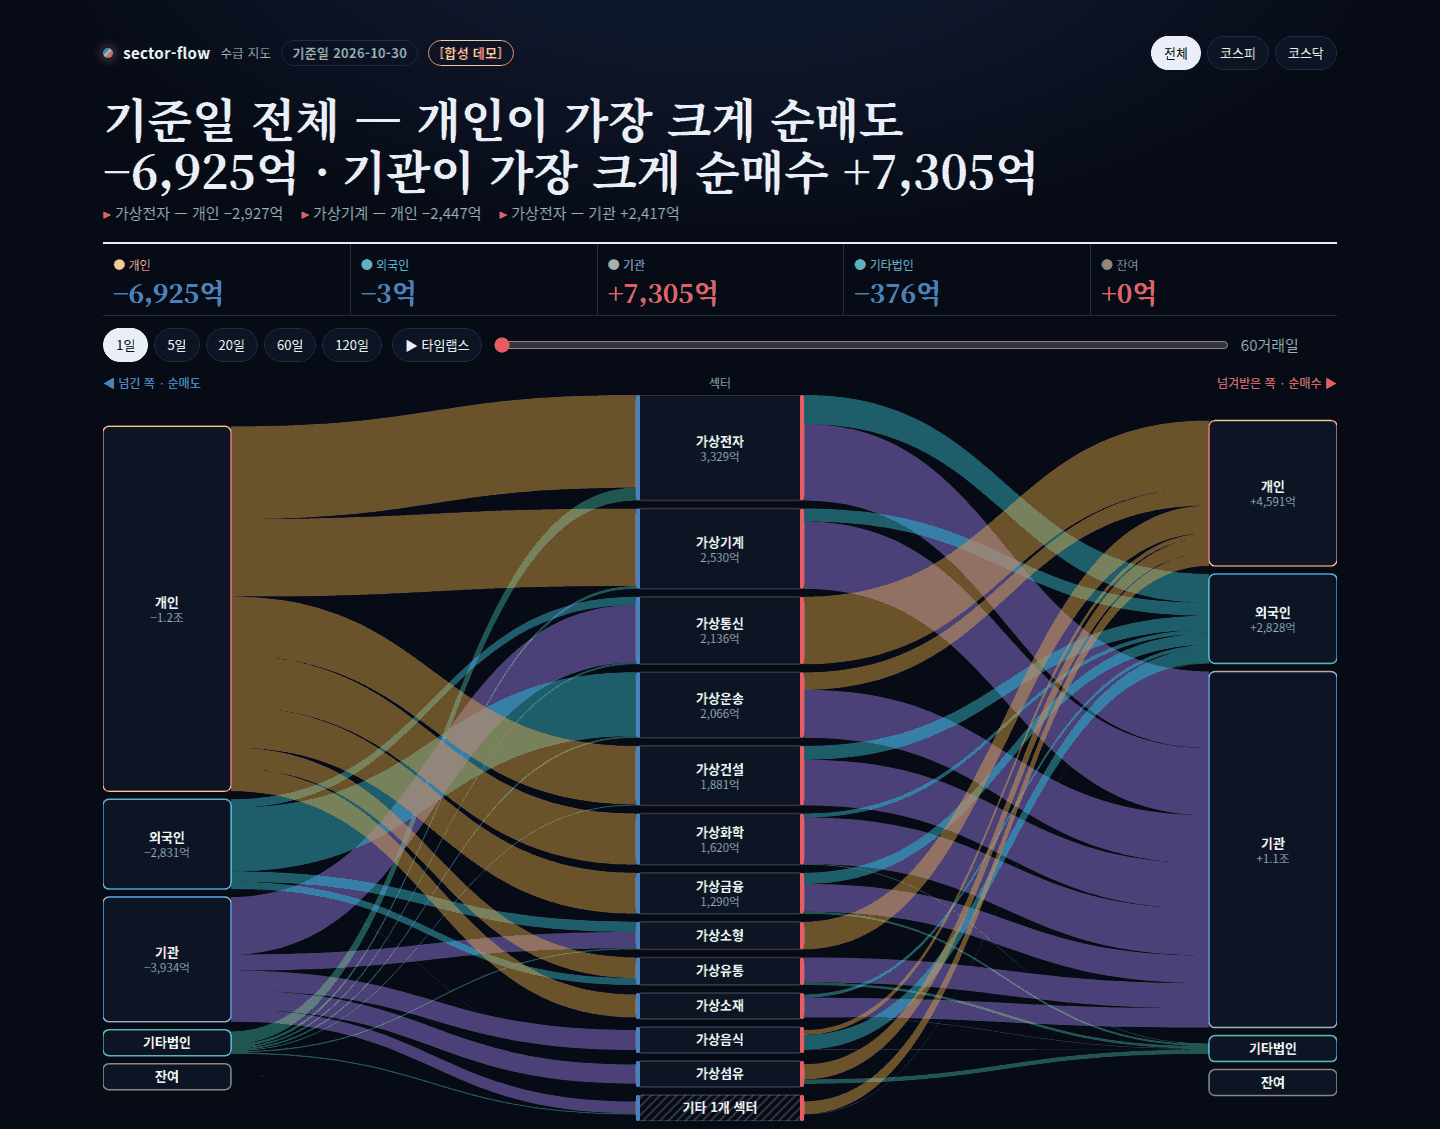
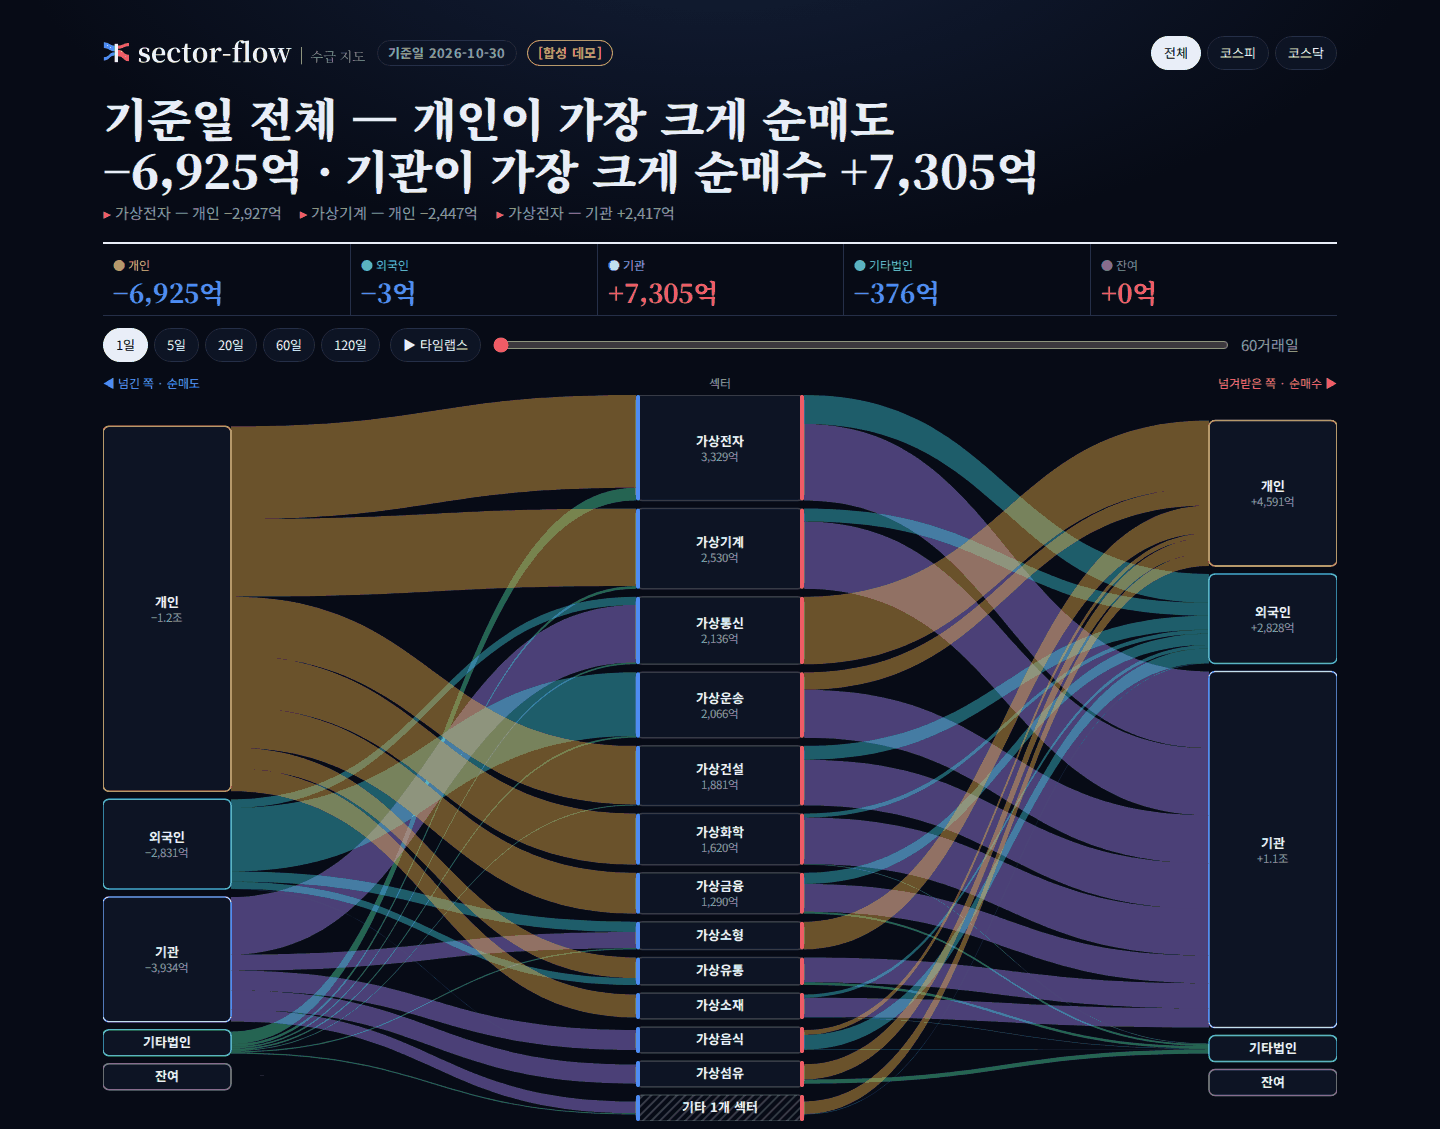
docs(images): 머리에 워드마크를 단 지도 페이지로 다시 찍는다
scripts/templates/ 가 바뀌어 원장의 웹·지도 그림과 타임랩스 GIF 가 낡았다. 합성 데모, demo_shots.py 로 HEAD 에서 찍었다.

diff --git a/docs/SCREENSHOTS.md b/docs/SCREENSHOTS.md
@@ -17,26 +17,26 @@ GIF 는 `scripts/map_video.py`(가짜 시계로 타임랩스를 30fps 로 찍어
 
 | 이미지 | 감시 경로 | 찍은 커밋 |
 |---|---|---|
-| docs/images/kqflow-today.png | src/sectorflow/tui/ | 3f1868f6dc0f1ba37af0356293504233a69f74bf |
-| docs/images/kqflow-today.png | src/sectorflow/demo.py | 3f1868f6dc0f1ba37af0356293504233a69f74bf |
-| docs/images/kqflow-table.png | src/sectorflow/tui/ | 3f1868f6dc0f1ba37af0356293504233a69f74bf |
-| docs/images/kqflow-table.png | src/sectorflow/demo.py | 3f1868f6dc0f1ba37af0356293504233a69f74bf |
-| docs/images/kqflow-names.png | src/sectorflow/tui/ | 3f1868f6dc0f1ba37af0356293504233a69f74bf |
-| docs/images/kqflow-names.png | src/sectorflow/demo.py | 3f1868f6dc0f1ba37af0356293504233a69f74bf |
-| docs/images/kqflow-combined.png | src/sectorflow/tui/ | 3f1868f6dc0f1ba37af0356293504233a69f74bf |
-| docs/images/kqflow-combined.png | src/sectorflow/demo.py | 3f1868f6dc0f1ba37af0356293504233a69f74bf |
-| docs/images/kqledger-table.png | src/sectorflow/tui/ | 3f1868f6dc0f1ba37af0356293504233a69f74bf |
-| docs/images/kqledger-table.png | src/sectorflow/demo.py | 3f1868f6dc0f1ba37af0356293504233a69f74bf |
-| docs/images/web-today.png | scripts/templates/ | 3f1868f6dc0f1ba37af0356293504233a69f74bf |
-| docs/images/web-today.png | src/sectorflow/demo.py | 3f1868f6dc0f1ba37af0356293504233a69f74bf |
-| docs/images/web-today-mobile.png | scripts/templates/ | 3f1868f6dc0f1ba37af0356293504233a69f74bf |
-| docs/images/web-today-mobile.png | src/sectorflow/demo.py | 3f1868f6dc0f1ba37af0356293504233a69f74bf |
-| docs/images/map-demo.png | scripts/templates/ | 3f1868f6dc0f1ba37af0356293504233a69f74bf |
-| docs/images/map-demo.png | scripts/sector_map.py | 3f1868f6dc0f1ba37af0356293504233a69f74bf |
-| docs/images/map-demo.png | src/sectorflow/flowmap.py | 3f1868f6dc0f1ba37af0356293504233a69f74bf |
-| docs/images/map-demo.png | src/sectorflow/demo.py | 3f1868f6dc0f1ba37af0356293504233a69f74bf |
-| docs/images/map-demo.gif | scripts/templates/ | 3f1868f6dc0f1ba37af0356293504233a69f74bf |
-| docs/images/map-demo.gif | scripts/sector_map.py | 3f1868f6dc0f1ba37af0356293504233a69f74bf |
-| docs/images/map-demo.gif | scripts/map_video.py | 3f1868f6dc0f1ba37af0356293504233a69f74bf |
-| docs/images/map-demo.gif | src/sectorflow/flowmap.py | 3f1868f6dc0f1ba37af0356293504233a69f74bf |
-| docs/images/map-demo.gif | src/sectorflow/demo.py | 3f1868f6dc0f1ba37af0356293504233a69f74bf |
+| docs/images/kqflow-today.png | src/sectorflow/tui/ | b93fd5c3f58b90bd936a89342eb61f1e591b3d0c |
+| docs/images/kqflow-today.png | src/sectorflow/demo.py | b93fd5c3f58b90bd936a89342eb61f1e591b3d0c |
+| docs/images/kqflow-table.png | src/sectorflow/tui/ | b93fd5c3f58b90bd936a89342eb61f1e591b3d0c |
+| docs/images/kqflow-table.png | src/sectorflow/demo.py | b93fd5c3f58b90bd936a89342eb61f1e591b3d0c |
+| docs/images/kqflow-names.png | src/sectorflow/tui/ | b93fd5c3f58b90bd936a89342eb61f1e591b3d0c |
+| docs/images/kqflow-names.png | src/sectorflow/demo.py | b93fd5c3f58b90bd936a89342eb61f1e591b3d0c |
+| docs/images/kqflow-combined.png | src/sectorflow/tui/ | b93fd5c3f58b90bd936a89342eb61f1e591b3d0c |
+| docs/images/kqflow-combined.png | src/sectorflow/demo.py | b93fd5c3f58b90bd936a89342eb61f1e591b3d0c |
+| docs/images/kqledger-table.png | src/sectorflow/tui/ | b93fd5c3f58b90bd936a89342eb61f1e591b3d0c |
+| docs/images/kqledger-table.png | src/sectorflow/demo.py | b93fd5c3f58b90bd936a89342eb61f1e591b3d0c |
+| docs/images/web-today.png | scripts/templates/ | b93fd5c3f58b90bd936a89342eb61f1e591b3d0c |
+| docs/images/web-today.png | src/sectorflow/demo.py | b93fd5c3f58b90bd936a89342eb61f1e591b3d0c |
+| docs/images/web-today-mobile.png | scripts/templates/ | b93fd5c3f58b90bd936a89342eb61f1e591b3d0c |
+| docs/images/web-today-mobile.png | src/sectorflow/demo.py | b93fd5c3f58b90bd936a89342eb61f1e591b3d0c |
+| docs/images/map-demo.png | scripts/templates/ | b93fd5c3f58b90bd936a89342eb61f1e591b3d0c |
+| docs/images/map-demo.png | scripts/sector_map.py | b93fd5c3f58b90bd936a89342eb61f1e591b3d0c |
+| docs/images/map-demo.png | src/sectorflow/flowmap.py | b93fd5c3f58b90bd936a89342eb61f1e591b3d0c |
+| docs/images/map-demo.png | src/sectorflow/demo.py | b93fd5c3f58b90bd936a89342eb61f1e591b3d0c |
+| docs/images/map-demo.gif | scripts/templates/ | b93fd5c3f58b90bd936a89342eb61f1e591b3d0c |
+| docs/images/map-demo.gif | scripts/sector_map.py | b93fd5c3f58b90bd936a89342eb61f1e591b3d0c |
+| docs/images/map-demo.gif | scripts/map_video.py | b93fd5c3f58b90bd936a89342eb61f1e591b3d0c |
+| docs/images/map-demo.gif | src/sectorflow/flowmap.py | b93fd5c3f58b90bd936a89342eb61f1e591b3d0c |
+| docs/images/map-demo.gif | src/sectorflow/demo.py | b93fd5c3f58b90bd936a89342eb61f1e591b3d0c |
